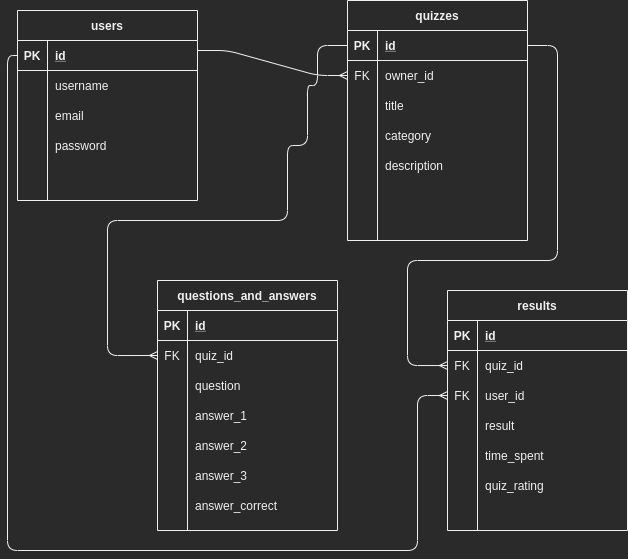
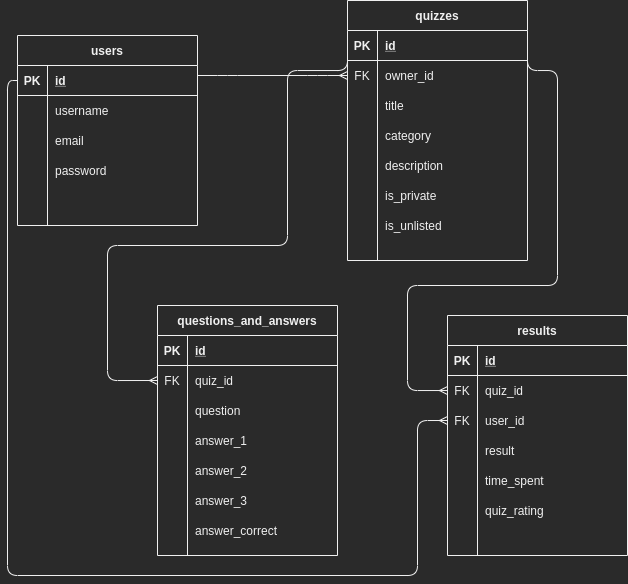
Update project-blueprint and ERD

diff --git a/server.js b/server.js
@@ -16,17 +16,6 @@ const dbParams = require('./lib/db.js');
 const db = new Pool(dbParams);
 db.connect();
 
-// db.query(`
-// CREATE TABLE users (
-//   id SERIAL PRIMARY KEY NOT NULL,
-//   name VARCHAR(255) NOT NULL,
-//   email VARCHAR(255) NOT NULL,
-//   password VARCHAR(255) NOT NULL
-// );
-// `).then(() => {
-//   console.log('hello');
-// });
-
 // Load the logger first so all (static) HTTP requests are logged to STDOUT
 // 'dev' = Concise output colored by response status for development use.
 //         The :status token will be colored red for server error codes, yellow for client error codes, cyan for redirection codes, and uncolored for all other codes.

diff --git a/project-outline/project-blueprint.md b/project-outline/project-blueprint.md
@@ -31,7 +31,16 @@
 * Pair Programming: Back End
 
   ### Github Project
-    * To Do = Minimum Viable Demo
+    * Front End Mockups
+    * Create schemas and seeds for database
+    * Set up routes using project-blueprint
+    * Set up HTML/SCSS using Front End mockups
+      * Home Page
+      * Take Quiz
+      * Results
+      * Make Quiz
+    * Set up queries from database to render to routes
+      * Query for all public quiz 
 
   ### Database
     ElephantSQL
